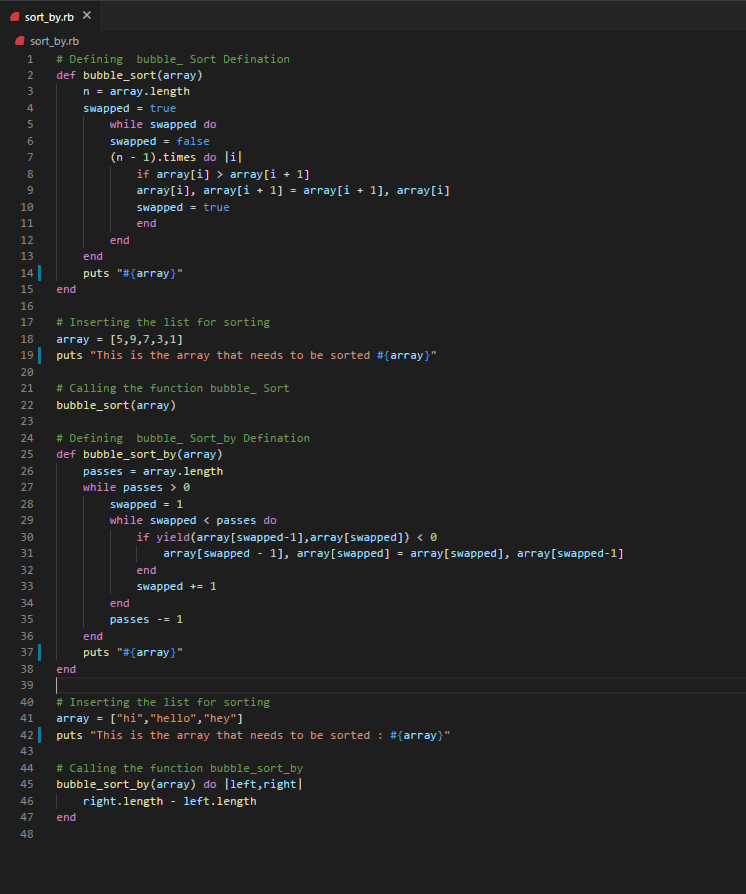
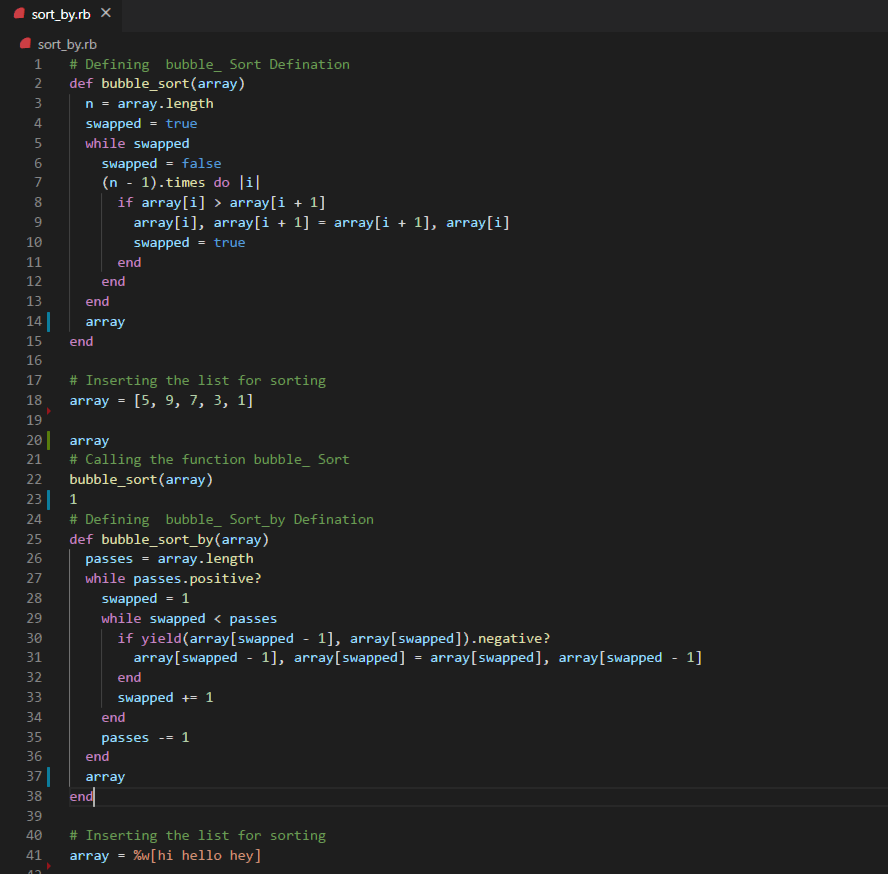
Chages made as per TSE

diff --git a/sort_by.rb b/sort_by.rb
@@ -11,16 +11,16 @@ def bubble_sort(array)
       end
     end
   end
-  puts array.to_s
+  array
 end
 
 # Inserting the list for sorting
 array = [5, 9, 7, 3, 1]
-puts "This is the array that needs to be sorted #{array}"
 
+array
 # Calling the function bubble_ Sort
 bubble_sort(array)
-
+1
 # Defining  bubble_ Sort_by Defination
 def bubble_sort_by(array)
   passes = array.length
@@ -34,12 +34,11 @@ def bubble_sort_by(array)
     end
     passes -= 1
   end
-  puts array.to_s
+  array
 end
 
 # Inserting the list for sorting
 array = %w[hi hello hey]
-puts "This is the array that needs to be sorted : #{array}"
 
 # Calling the function bubble_sort_by
 bubble_sort_by(array) do |left, right|

diff --git a/README.md b/README.md
@@ -6,10 +6,6 @@ Code on Ruby
 
 ![screenshot](./images/Code.PNG)
 
-Output.PNG
-
-![screenshot](./images/Output.PNG)
-
 ## Getting the Repo
 
 git clone https://github.com/shubham14p3/Advanced-Building-Blocks-Bubble-Sort.git
